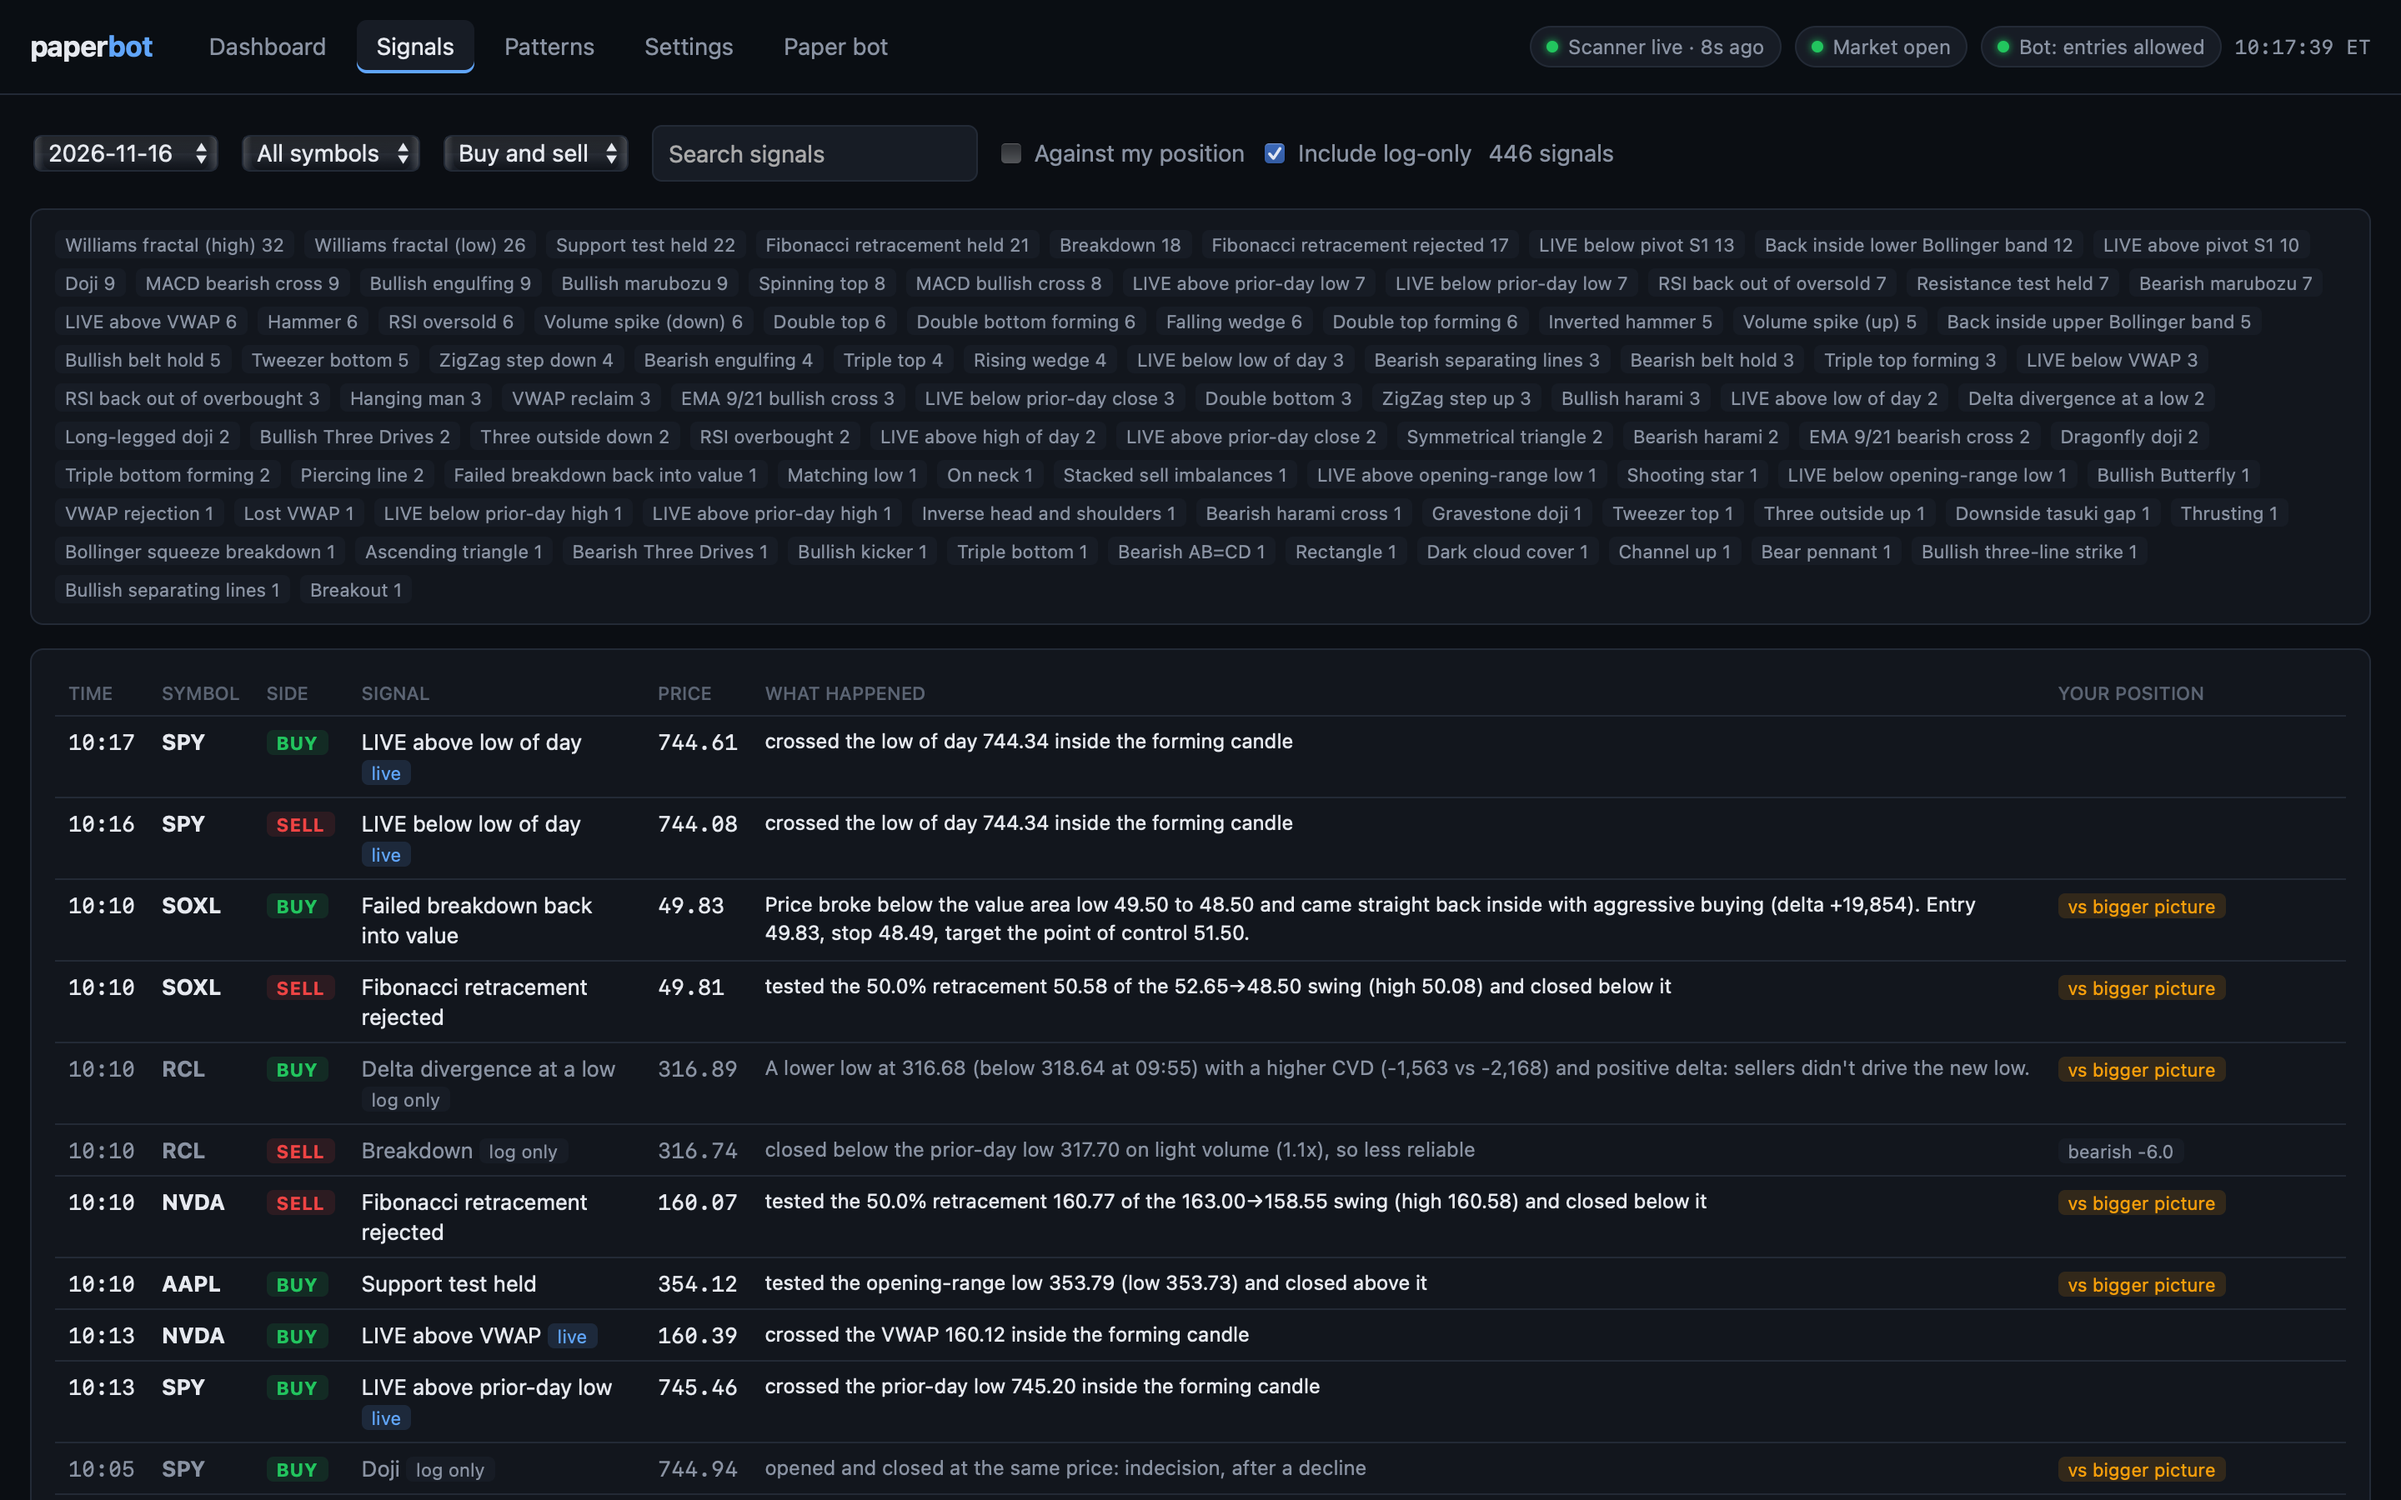
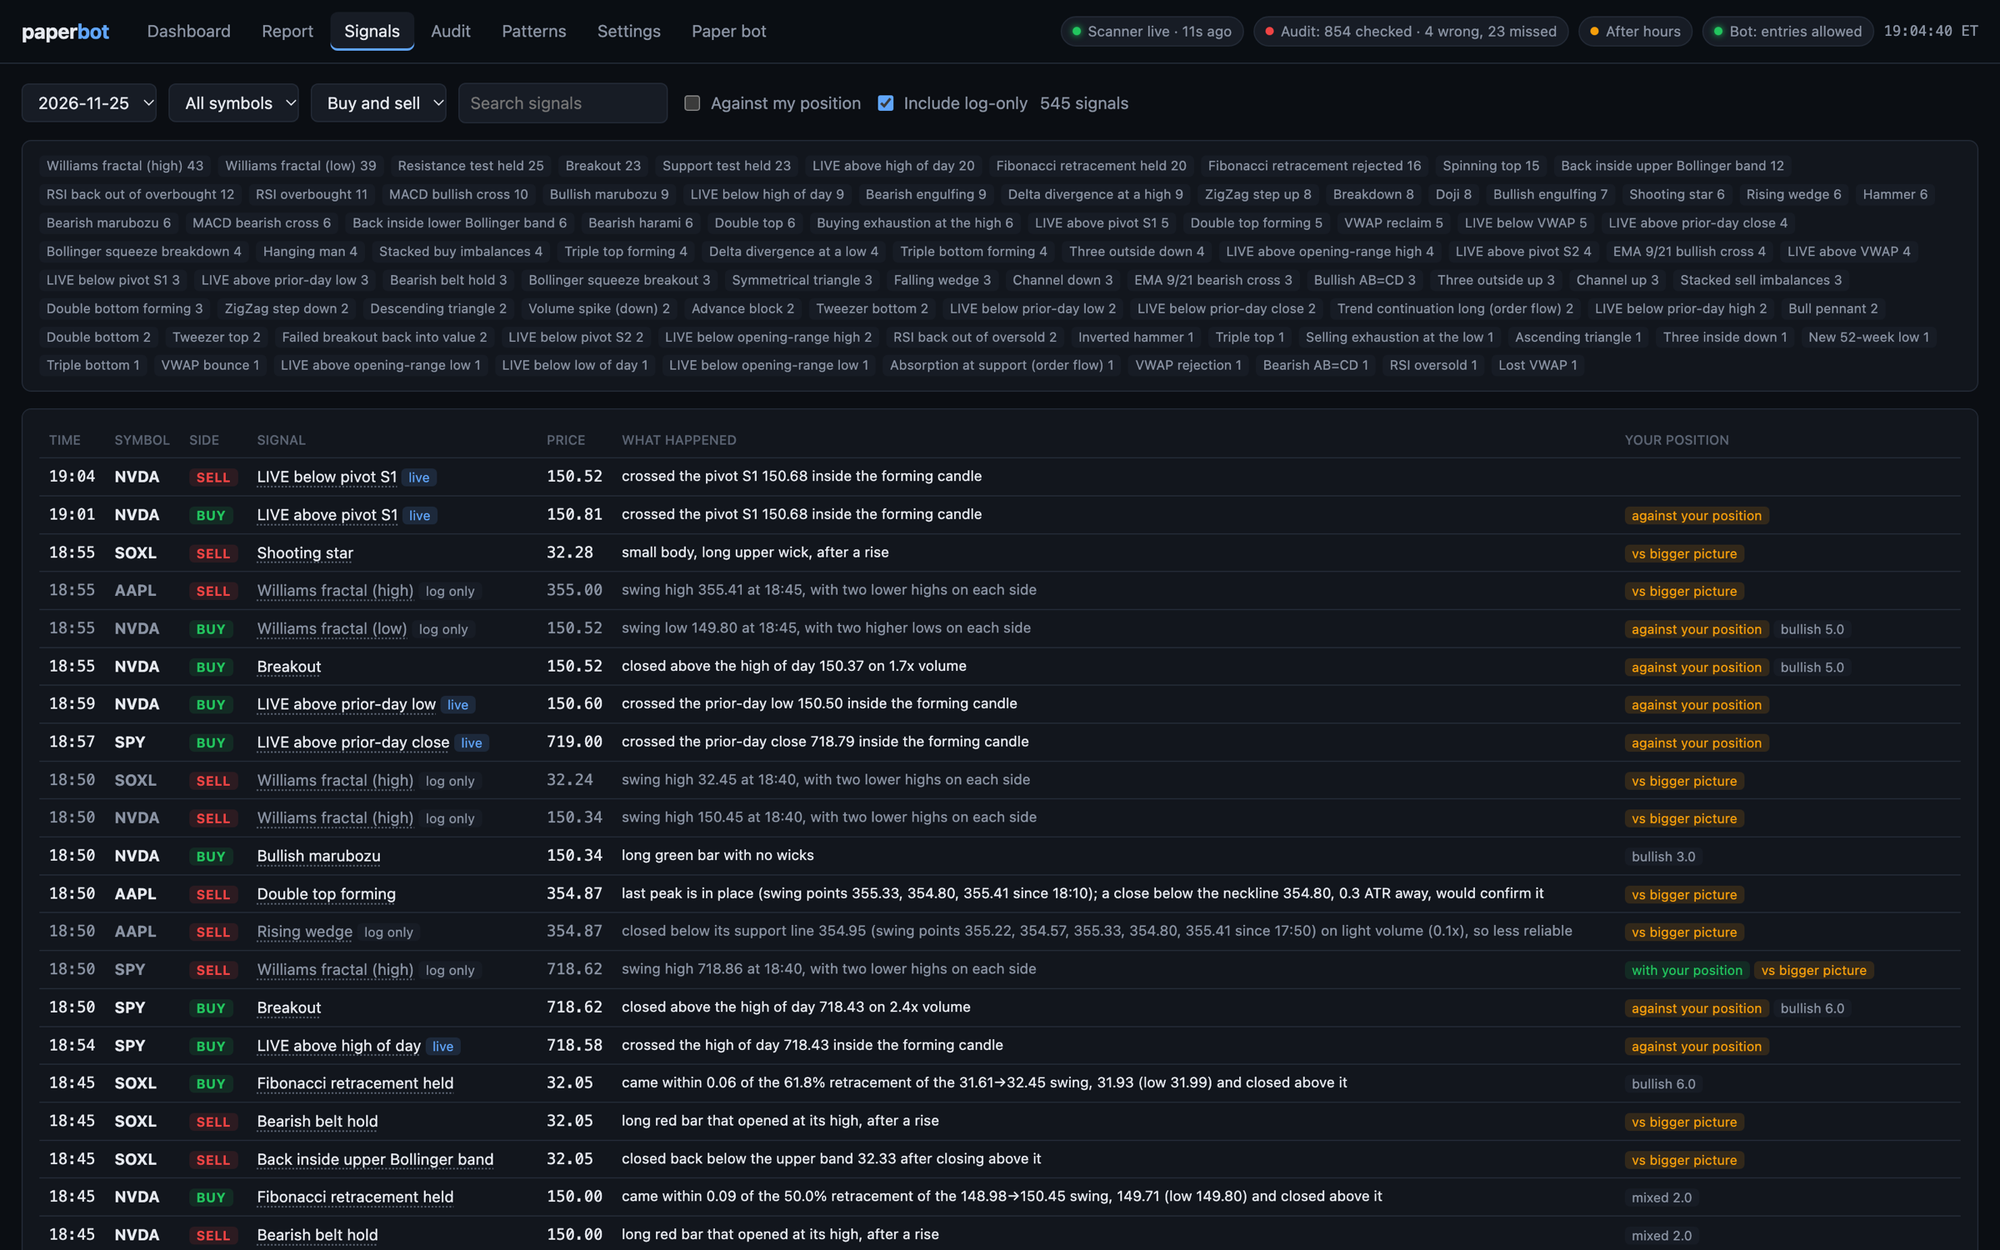
Refresh README screenshots
New hero chart, plus the morning report, signals, audit and paper bot views.
Removes the older dashboard and patterns shots.

Changed region(s): [[0.0, 0.0, 0.9688, 1.0], [0.5312, 0.0, 1.0, 0.0613]]

diff --git a/README.md b/README.md
@@ -3,12 +3,11 @@
 **An AI options-trading agent and a real-time chart-signal scanner, with a live web dashboard.**
 Paper trading only: no real money is ever at risk.
 
-![Dashboard: live 5-minute charts with buy and sell signals marked on the candles](docs/screenshots/dashboard.png)
+![SPY on a 1-minute chart with QQE, squeeze, support/resistance and smart money signals](docs/screenshots/chart.png)
 
-*The dashboard during a live session (Nov 16, 2026): every buy (green) and sell (red) signal is
-marked on the candle that triggered it, next to VWAP, high and low of day, prior-day and
-opening-range levels. Under each chart, the order-flow panel shows every candle's delta (bars) and
-the session's cumulative delta (blue line). The feed on the right explains each signal in plain words.*
+*SPY on a 1-minute chart, Nov 25, 2026: QQE (green and red) and squeeze (purple) signals on the candles that
+triggered them, smart money structure (BOS, CHoCH, equal highs and lows), demand zones in blue, VWAP in yellow, and
+the order-flow panel underneath: every candle's delta (bars) and the session's cumulative delta (blue line).*
 
 ## Highlights
 
@@ -28,14 +27,27 @@ the session's cumulative delta (blue line). The feed on the right explains each 
 - **QQE Long and QQE Short labels.** The QQE signal (a smoothed RSI crossing its volatility line, with the
   same RSI 14 / smoothing 5 / factor 4.238 settings as TradingView's "QQE signals" script) is drawn on
   every chart as its own labels, separate from the scanner's signals. Display only: never alerted or traded.
+- **Support / resistance breaks and squeezes.** Two more popular TradingView ideas, drawn the same way: pivot
+  levels with the candles that break them, and the release of a Bollinger / Keltner squeeze in the direction of
+  momentum. Each has its own on/off box. Written here from their published rules; display only.
+- **Smart money concepts.** Market structure on two scales (BOS and CHoCH), order blocks, equal highs and lows, strong
+  and weak highs and lows, premium and discount zones, and fair value gaps, each with its own box. Written here from
+  the published rules of the most-boosted script found on TradingView; display only.
+- **One chart, full page.** The corner icon on any chart (or its name) shows it alone: candle prices and indicator
+  readings at the top left, the countdown on the price label, quick ranges and a symbol switch. Esc goes back.
 - **1-minute and 5-minute charts.** A 1m / 5m switch above the charts changes every chart at once: the
-  candles, RSI, trend, QQE labels and order-flow panel. Signals and alerts stay on the scanner's own candles.
+  candles, RSI, trend, QQE, S/R, squeeze and smart money drawings, and order-flow panel. Signals and alerts stay on the scanner's own candles.
+- **A morning report every trading day.** At 10:00 AM Central the page alerts and opens a 4-hour chart
+  with the support to hold, bullish and bearish scenarios, and every level with the reason it's there. While open,
+  it shows live whether the support held and which targets were reached.
+- **Every signal audited, live.** A separate checker works out each signal again from the candles, compares
+  them with a second data source and flags anything wrong or missed within a minute.
 - **Context-aware phone alerts.** Each signal is checked against the slower trend and key price
   levels, then pushed to your phone, flagged when it goes against a position you hold.
 - **Any LLM, with automatic fallback.** Claude, Grok, Groq, Gemini or OpenRouter. When one model
   hits its rate limit or daily token budget, the next one answers.
 - **Built to be trusted.** Kill switches, a daily loss limit, runaway-order protection, a journal
-  of every decision, order and fill, and 307 tests that run against a fake broker and scripted AI
+  of every decision, order and fill, and 385 tests that run against a fake broker and scripted AI
   replies.
 
 **Tech:** Python 3.13 · LangGraph · Anthropic and OpenAI-compatible APIs · Alpaca API ·
@@ -49,20 +61,24 @@ Nothing here is financial advice, and no signal has a proven edge.
 
 ## Screenshots
 
-**Signals.** Every signal of the day: chart patterns, 14 order-flow setups and indicator events.
-Each row says what happened and whether it goes with or against your position.
+**Morning report.** The support to hold, the bullish and bearish scenarios with each level's reason, and a
+4-hour chart with its moving averages, trend lines and zones. Targets are ticked off as price reaches them.
+
+![Morning report: SPY's support to hold, scenarios and the 4-hour chart](docs/screenshots/report.png)
+
+**Signals.** Every signal of the day: chart patterns, order-flow setups and indicator events. Each row says
+what happened and whether it goes with or against your position.
 
 ![Signals: every signal with what happened](docs/screenshots/signals.png)
 
-**Patterns.** The full catalog, with each pattern set to alert, log only or off. Changes reach the
-running scanner within one check.
+**Audit.** Every signal checked again, once a minute: right, wrong, missed or loosely worded, whether the
+full-market candles agree, and what price did in the next 30 minutes.
 
-![Patterns: 116 chart patterns, each set to alert, log or off](docs/screenshots/patterns.png)
+![Audit: every signal checked, by indicator](docs/screenshots/audit.png)
 
-**Paper bot.** The control panel for the AI trading agent: kill switches, one-click commands, and
-the journal of every decision, order, fill and alert.
+**Paper bot.** The control panel for the AI trading agent: kill switches and one-click commands.
 
-![Paper bot: kill switch, commands and the event journal](docs/screenshots/paper-bot.png)
+![Paper bot: kill switches and commands](docs/screenshots/paper-bot.png)
 
 ## Quick start
 
@@ -506,6 +522,37 @@ and changes things only through the same files and commands, so the page, the co
 see one state. The live scanner must be running for the dashboard to move (the launchd job above). The page
 is for this computer only: it listens on 127.0.0.1, refuses other host names, and every change needs a token
 that's printed into the page when the server starts. The chart library comes from unpkg.com.
+
+**Morning report.** At 10:00 AM Central on trading days the page makes a report (`daily_report` in config.yaml: symbols, time)
+and shows an alert; the Report tab has it all: the support to hold, the bullish and bearish scenarios with their levels and the
+reason for each, what price has done at the support, and the 4-hour chart. It is worked out from 180 days of 4-hour candles
+around the clock: swing highs and lows on three timeframes, the last session's high, low and close, the overnight range,
+pivots, the 20 and 50 EMA, the 200 SMA, round numbers and trend lines; prices several of these share become one level. While
+the report is open the page says whether the support has held and which levels were reached. "Make a new one now" (or
+`paperbot outlook`) makes one at once; `paperbot outlook --at 2026-11-25T11:00` makes it as of then. If the page was off at
+10:00, the report is made when it starts, until 3:00 PM Central.
+
+It describes scenarios; it doesn't predict one. On 244 past SPY mornings (December 2025 to November 2026) the support held to the
+close 58% of the time and bounced 54% of the times it was touched; levels at random distances did 59% and 50%.
+
+**Signal audit.** `paperbot audit --live` (launchd job `com.paperbot.audit`) checks every signal once a minute while the
+scanner's sessions run: the scanner's own, its live crosses, and the QQE, S/R, Squeeze and Smart Money labels on the 1-minute
+and 5-minute charts. It is a separate, read-only process. For each one:
+
+1. Is it right? Worked out again from freshly downloaded candles cut at the signal's candle, and checked from its textbook
+   definition (`claims.py`) without the code that made it. Signals that should have fired and didn't, and labels that
+   disappear, are reported too.
+2. Does a second source agree? 16 minutes later, on Alpaca's full-market (SIP) candles.
+3. What happened next? How far price went its way after 15 and 30 minutes, beside what any candle that day did.
+
+The page's Audit tab and the charts' tooltips show the results, and a wrong signal alerts your phone (at most 10 messages a
+day). `paperbot audit` prints today's. Being right is about the calculation; it doesn't mean the signal pays. When the
+computer sleeps (the lid closed, say) the scanner stops: on waking it catches up on the candles it missed, for the charts
+and the log, and alerts only the latest.
+
+```bash
+launchctl kickstart -k gui/$(id -u)/com.paperbot.audit
+```
 
 A launchd job (`~/Library/LaunchAgents/com.paperbot.web.plist`) keeps the page up: it starts at login and
 restarts if it stops, so http://127.0.0.1:8765/ is always there. Its log is
